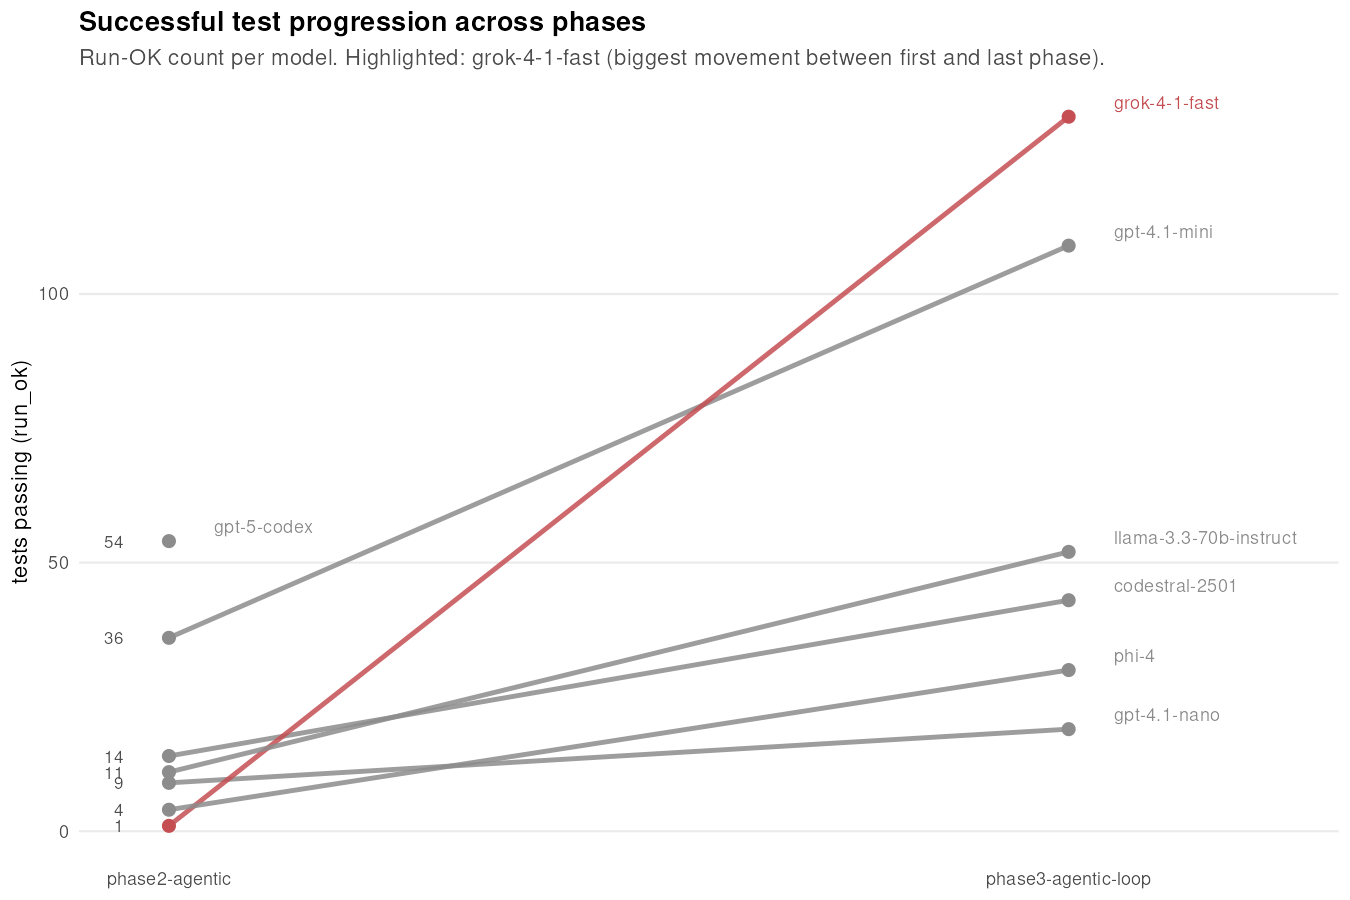
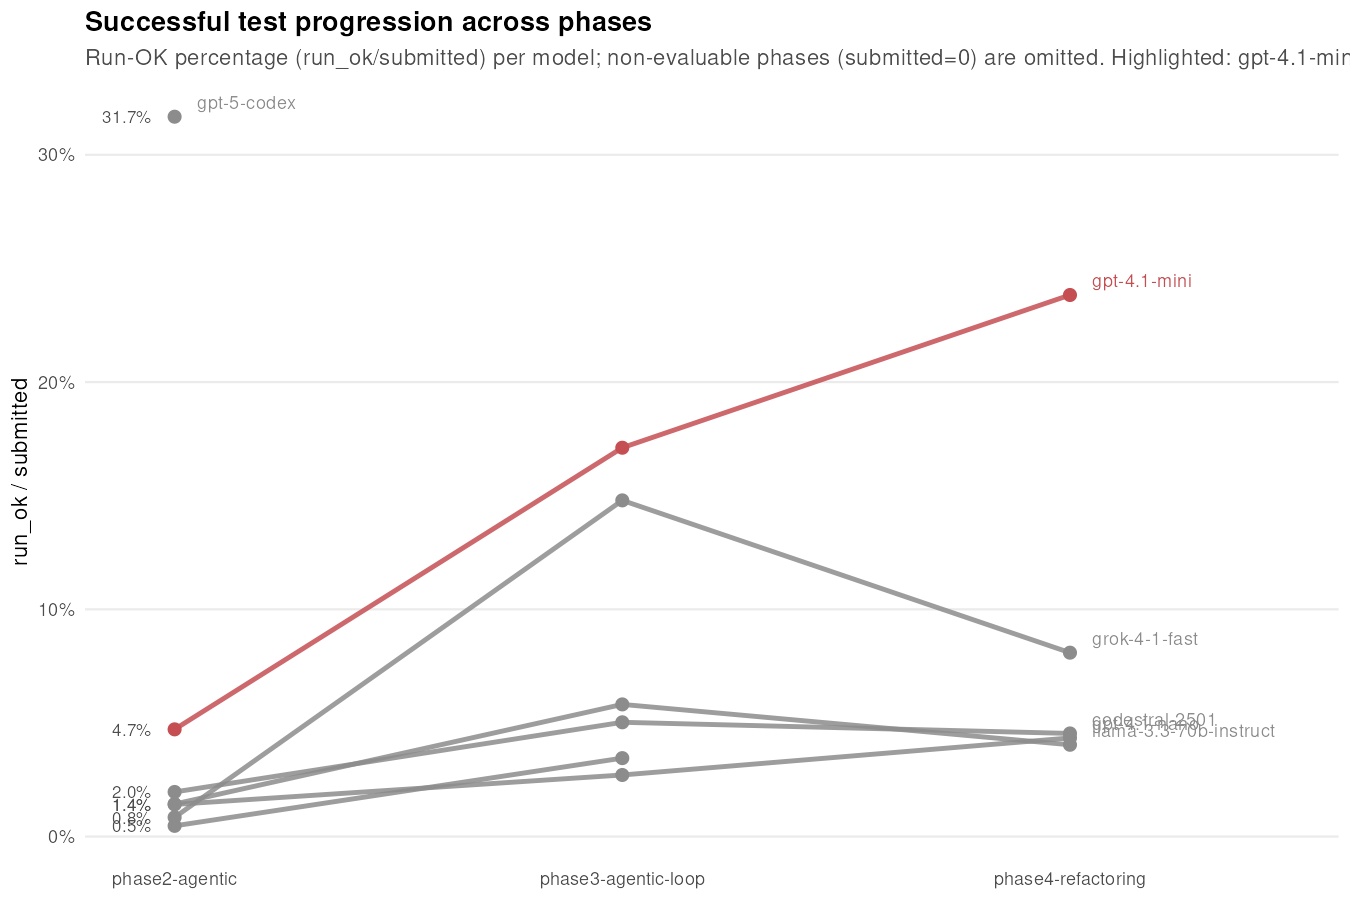
docs: refresh phase4 charts and data

diff --git a/.squad/agents/beck/history.md b/.squad/agents/beck/history.md
@@ -50,6 +50,11 @@ Test/coverage agent. Owns `tools/test_counts/`, `tools/test_discovery/`, `tools/
 ### 2026-05-16 — tools/viz restructure (commit pending)
 Split `render_phase3.R` into `tools/viz/plots/*.R` + `tools/viz/lib/{load,theme}.R`. Added `aggregate_phase_results.py` → derived `tools/viz/data/per_model_phase.csv`. Four new plot families: `successful_tests_progression`, `coverage_baseline`, `cost_efficiency`, `cost_per_passing_test`. Phase2 totals reconcile to COSTS.md. Decision: `2026-05-16: tools/viz restructure`.
 
+### 2026-07-22 — phase-4 chart refresh
+- `tools/viz/aggregate_phase_results.py` already reads restored `phase4-refactoring/results/<model>/run_*/attempts.jsonl`; the missing phase-4 charts on this branch were caused by a stale committed `tools/viz/data/per_model_phase.csv`, not a broken phase-4 source walk.
+- `tools/viz/plots/cost_efficiency.R` was silently excluding phase 4 because `scale_shape_manual()` only declared shapes through phase 3. Fix: build the present phase levels dynamically and add a dedicated phase-4 shape (`18`) so fresh aggregate rows render instead of dropping.
+- Later-phase coverage should not be added to `coverage-baseline.png` yet: the repo currently exposes only phase-1 coverage inputs (`baseline_coverage.csv` / `phases/phase1-baseline/reports/unified_table.csv`). No committed phase-2/3/4 coverage aggregate exists to extend that chart truthfully.
+
 ### 2026-05-09 — Cobertura dedup fix (see Learnings above for details)
 Per-csproj cobertura inflation root-caused and fixed in `build_unified_table.py`. TOTAL 33.04→58.23%.
 
